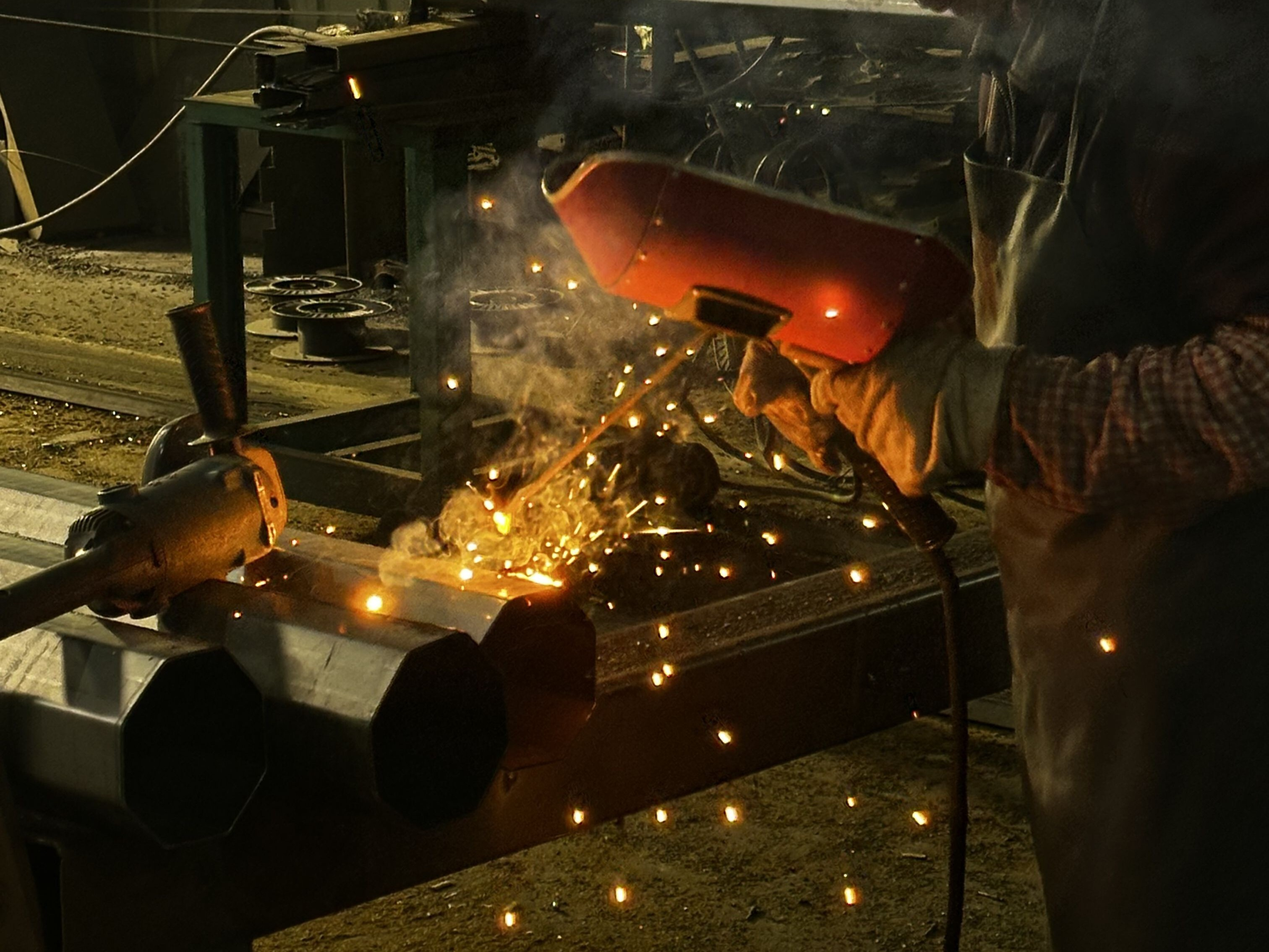
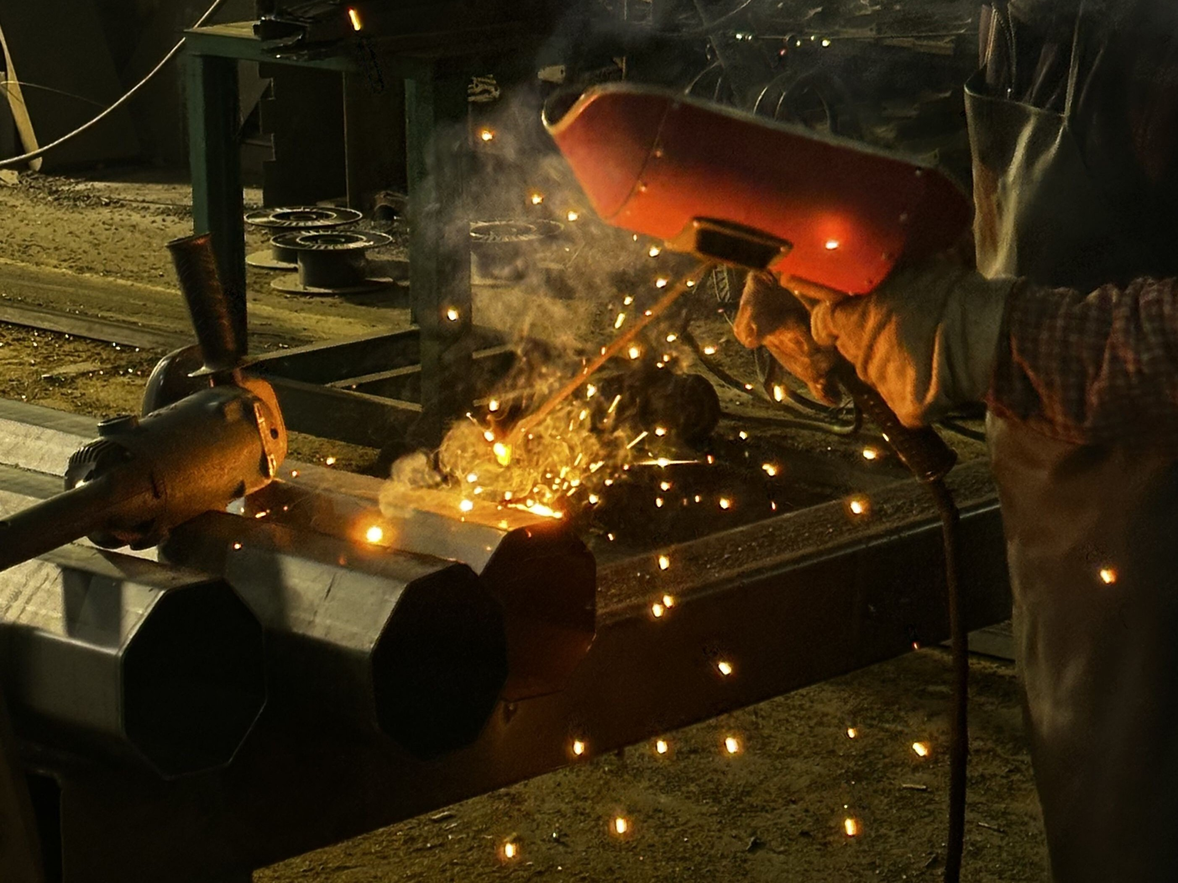
Исправить SEO-настройки и данные сайта, обновить фотографии

diff --git a/index.html b/index.html
@@ -6,7 +6,7 @@
 <title data-i18n="title.index">MRC — металлические конструкции для дорог и инфраструктуры</title>
 <meta name="description" content="MRC (My Road Construction) — опоры освещения, дорожные ограждения, флагштоки, мачты и металлоконструкции. Склад в Ташкенте, производство по чертежам заказчика.">
 <meta name="theme-color" content="#333333">
-<link rel="canonical" href="https://mrc.uz/">
+<link rel="canonical" href="https://myroadconstruction.com/">
 <meta property="og:type" content="website">
 <meta property="og:title" content="MRC — металлоконструкции для дорог и инфраструктуры">
 <meta property="og:description" content="Опоры освещения, дорожные ограждения, флагштоки и мачты. Склад в Ташкенте, производство по чертежам.">
@@ -129,7 +129,7 @@ assets/img/warehouse/hero.jpg">
         </ul>
       </div>
       <div class="frame" data-ph=" " style="min-height:280px">
-        <img src="assets/img/warehouse/about.jpg" alt="Производство MRC" loading="lazy" onerror="imgFallback(this)">
+        <img src="assets/img/warehouse/about.JPG" alt="Производство MRC" loading="lazy" onerror="imgFallback(this)">
       </div>
     </div>
   </div>
@@ -206,9 +206,9 @@ assets/img/warehouse/stock.jpg" style="min-height:340px">
       </div>
     </div>
     <div class="grid-lines g-3">
-      <div class="frame" data-ph=" " style="aspect-ratio:4/3"><img src="assets/img/projects/1.jpg" alt="Объект MRC" loading="lazy" onerror="imgFallback(this)"></div>
+      <div class="frame" data-ph=" " style="aspect-ratio:4/3"><img src="assets/img/projects/1.JPG" alt="Объект MRC" loading="lazy" onerror="imgFallback(this)"></div>
       <div class="frame" data-ph=" " style="aspect-ratio:4/3"><img src="assets/img/projects/2.jpg" alt="Объект MRC" loading="lazy" onerror="imgFallback(this)"></div>
-      <div class="frame" data-ph=" " style="aspect-ratio:4/3"><img src="assets/img/projects/3.jpg" alt="Объект MRC" loading="lazy" onerror="imgFallback(this)"></div>
+      <div class="frame" data-ph=" " style="aspect-ratio:4/3"><img src="assets/img/projects/3.JPG" alt="Объект MRC" loading="lazy" onerror="imgFallback(this)"></div>
     </div>
   </div>
 </section>
@@ -220,7 +220,7 @@ assets/img/warehouse/stock.jpg" style="min-height:340px">
       <div>
         <p class="eyebrow" data-i18n="index.ctEyebrow">Контакты</p>
         <h2 data-i18n="index.ctH2">Связаться с нами</h2>
-        <p data-i18n="index.ctP">Позвоните или напишите в мессенджер — ответим в рабочее время.</p>
+        <p data-i18n="index.ctP">Работаем круглосуточно, без выходных. Позвоните или напишите в мессенджер.</p>
       </div>
     </div>
     <div class="contacts-grid">

diff --git a/js/data.js b/js/data.js
@@ -31,8 +31,8 @@ var CATEGORIES = [
       "uz": "Yoritish ustunlari"
     },
     "desc": {
-      "ru": "Стальные опоры высотой от 4 до 12 метров: конические, гранёные, прямые. Стандартные модели и изготовление под проект.",
-      "uz": "Balandligi 4 dan 12 metrgacha boʻlgan poʻlat ustunlar: konussimon, qirrali, toʻgʻri. Standart modellar va loyiha boʻyicha tayyorlash."
+      "ru": "Стальные опоры высотой от 7 до 12 метров: конические, гранёные, прямые. Стандартные модели и изготовление под проект.",
+      "uz": "Balandligi 7 dan 12 metrgacha boʻlgan poʻlat ustunlar: konussimon, qirrali, toʻgʻri. Standart modellar va loyiha boʻyicha tayyorlash."
     },
     "image": "assets/img/products/dorojnaya_opora_kategoriya.png"
   },
@@ -112,8 +112,8 @@ var PRODUCTS = [
       "uz": "Kvartal ichidagi yoʻllar, avtoturargohlar va piyoda zonalari uchun qirrali ustun."
     },
     "desc": {
-      "ru": "Опора несилового типа для установки светильников на высоте 6 метров. Применяется на дворовых территориях, парковках, в парках и на пешеходных участках. Комплектуется закладной деталью и кронштейном по запросу.",
-      "uz": "Chiroqlarni 6 metr balandlikda oʻrnatish uchun kuchsiz turdagi ustun. Hovli hududlari, avtoturargohlar, bogʻlar va piyoda uchastkalarida qoʻllaniladi. Soʻrov boʻyicha oʻrnatma detal va kronshteyn bilan toʻldiriladi."
+      "ru": "Опора несилового типа для установки светильников на высоте 7 метров. Применяется на дворовых территориях, парковках, в парках и на пешеходных участках. Комплектуется закладной деталью и кронштейном по запросу.",
+      "uz": "Chiroqlarni 7 metr balandlikda oʻrnatish uchun kuchsiz turdagi ustun. Hovli hududlari, avtoturargohlar, bogʻlar va piyoda uchastkalarida qoʻllaniladi. Soʻrov boʻyicha oʻrnatma detal va kronshteyn bilan toʻldiriladi."
     },
     "images": [
       "assets/img/products/ChatGPT Image 8 сент. 2026 г., 20_05_59.png"

diff --git a/js/i18n.js b/js/i18n.js
@@ -114,7 +114,7 @@ var I18N = {
 
     'index.ctEyebrow': 'Контакты',
     'index.ctH2': 'Связаться с нами',
-    'index.ctP': 'Позвоните или напишите в мессенджер — ответим в рабочее время.',
+    'index.ctP': 'Работаем круглосуточно, без выходных. Позвоните или напишите в мессенджер.',
     'index.ctPhones': 'Телефоны',
     'index.ctMess': 'Мессенджеры и соцсети',
 
@@ -193,7 +193,7 @@ var I18N = {
 
     'contacts.eyebrow': 'Связь',
     'contacts.h2': 'Контакты',
-    'contacts.p': 'Позвоните или напишите в мессенджер — ответим в рабочее время.',
+    'contacts.p': 'Работаем круглосуточно, без выходных. Позвоните или напишите в мессенджер.',
     'contacts.phones': 'Телефоны',
     'contacts.tg': 'Telegram',
     'contacts.waIg': 'WhatsApp и Instagram',
@@ -314,7 +314,7 @@ var I18N = {
 
     'index.ctEyebrow': 'Aloqa',
     'index.ctH2': 'Biz bilan bogʻlaning',
-    'index.ctP': 'Qoʻngʻiroq qiling yoki messenjerga yozing — ish vaqtida javob beramiz.',
+    'index.ctP': 'Har kuni, tun-u kun ishlaymiz. Qoʻngʻiroq qiling yoki messenjer orqali yozing.',
     'index.ctPhones': 'Telefonlar',
     'index.ctMess': 'Messenjerlar va ijtimoiy tarmoqlar',
 
@@ -393,7 +393,7 @@ var I18N = {
 
     'contacts.eyebrow': 'Aloqa',
     'contacts.h2': 'Kontaktlar',
-    'contacts.p': 'Qoʻngʻiroq qiling yoki messenjerga yozing — ish vaqtida javob beramiz.',
+    'contacts.p': 'Har kuni, tun-u kun ishlaymiz. Qoʻngʻiroq qiling yoki messenjer orqali yozing.',
     'contacts.phones': 'Telefonlar',
     'contacts.tg': 'Telegram',
     'contacts.waIg': 'WhatsApp va Instagram',

diff --git a/about.html b/about.html
@@ -6,7 +6,7 @@
 <title data-i18n="title.about">О компании — MRC (My Road Construction)</title>
 <meta name="description" content="MRC — поставка и производство металлоконструкций для дорожного строительства и инфраструктуры. Собственный склад, производство, работа с проектами и B2B-заказчиками.">
 <meta name="theme-color" content="#333333">
-<link rel="canonical" href="https://mrc.uz/about.html">
+<link rel="canonical" href="https://myroadconstruction.com/about.html">
 <meta property="og:type" content="website">
 <meta property="og:title" content="О компании MRC">
 <meta property="og:description" content="Склад, производство и работа с инфраструктурными проектами в Узбекистане.">
@@ -71,8 +71,8 @@
       <div class="hero__media">
         <div class="frame--mark">
           <div class="frame" data-ph="ФОТО: склад или команда
-assets/img/warehouse/about-hero.jpg" style="aspect-ratio:4/5">
-            <img src="assets/img/warehouse/about-hero.jpg" alt="Компания MRC" onerror="imgFallback(this)">
+assets/img/warehouse/about-hero.JPG" style="aspect-ratio:4/5">
+            <img src="assets/img/warehouse/about-hero.JPG" alt="Компания MRC" onerror="imgFallback(this)">
             <span class="frame__tag" data-i18n="about.photoTag">Производство MRC</span>
           </div>
         </div>

diff --git a/contacts.html b/contacts.html
@@ -6,7 +6,7 @@
 <title data-i18n="title.contacts">Контакты — MRC</title>
 <meta name="description" content="Телефоны, WhatsApp, Telegram и Instagram компании MRC. Склад и офис в Ташкенте. Оставьте заявку — перезвоним.">
 <meta name="theme-color" content="#333333">
-<link rel="canonical" href="https://mrc.uz/contacts.html">
+<link rel="canonical" href="https://myroadconstruction.com/contacts.html">
 <meta property="og:type" content="website">
 <meta property="og:title" content="Контакты — MRC">
 <meta property="og:description" content="Телефоны, мессенджеры и форма заявки. Склад и офис в Ташкенте.">
@@ -65,7 +65,7 @@
       <div>
         <p class="eyebrow" data-i18n="contacts.eyebrow">Связь</p>
         <h1 style="font-size:clamp(1.75rem,3.2vw,2.5rem);text-transform:uppercase;letter-spacing:-.01em" data-i18n="contacts.h2">Контакты</h1>
-        <p data-i18n="contacts.p">Позвоните или напишите в мессенджер — ответим в рабочее время.</p>
+        <p data-i18n="contacts.p">Работаем круглосуточно, без выходных. Позвоните или напишите в мессенджер.</p>
       </div>
     </div>
 

diff --git a/production.html b/production.html
@@ -6,7 +6,7 @@
 <title data-i18n="title.production">Производство по чертежам и техническому заданию — MRC</title>
 <meta name="description" content="MRC изготавливает металлические изделия любых размеров и форм по чертежам и техническому заданию заказчика. Резка, сварка, цинкование, окраска.">
 <meta name="theme-color" content="#333333">
-<link rel="canonical" href="https://mrc.uz/production.html">
+<link rel="canonical" href="https://myroadconstruction.com/production.html">
 <meta property="og:type" content="website">
 <meta property="og:title" content="Производство по чертежам — MRC">
 <meta property="og:description" content="Изготовим металлоконструкции по вашим чертежам и техническому заданию.">

diff --git a/catalog.html b/catalog.html
@@ -6,7 +6,7 @@
 <title data-i18n="title.catalog">Каталог продукции — MRC</title>
 <meta name="description" content="Опоры освещения, дорожные ограждения, флагштоки, мачты, металлические ограждения и другие изделия MRC. Со склада в Ташкенте и под заказ.">
 <meta name="theme-color" content="#333333">
-<link rel="canonical" href="https://mrc.uz/catalog.html">
+<link rel="canonical" href="https://myroadconstruction.com/catalog.html">
 <meta property="og:type" content="website">
 <meta property="og:title" content="Каталог продукции — MRC">
 <meta property="og:description" content="Опоры освещения, дорожные ограждения, флагштоки, мачты и металлоконструкции.">
